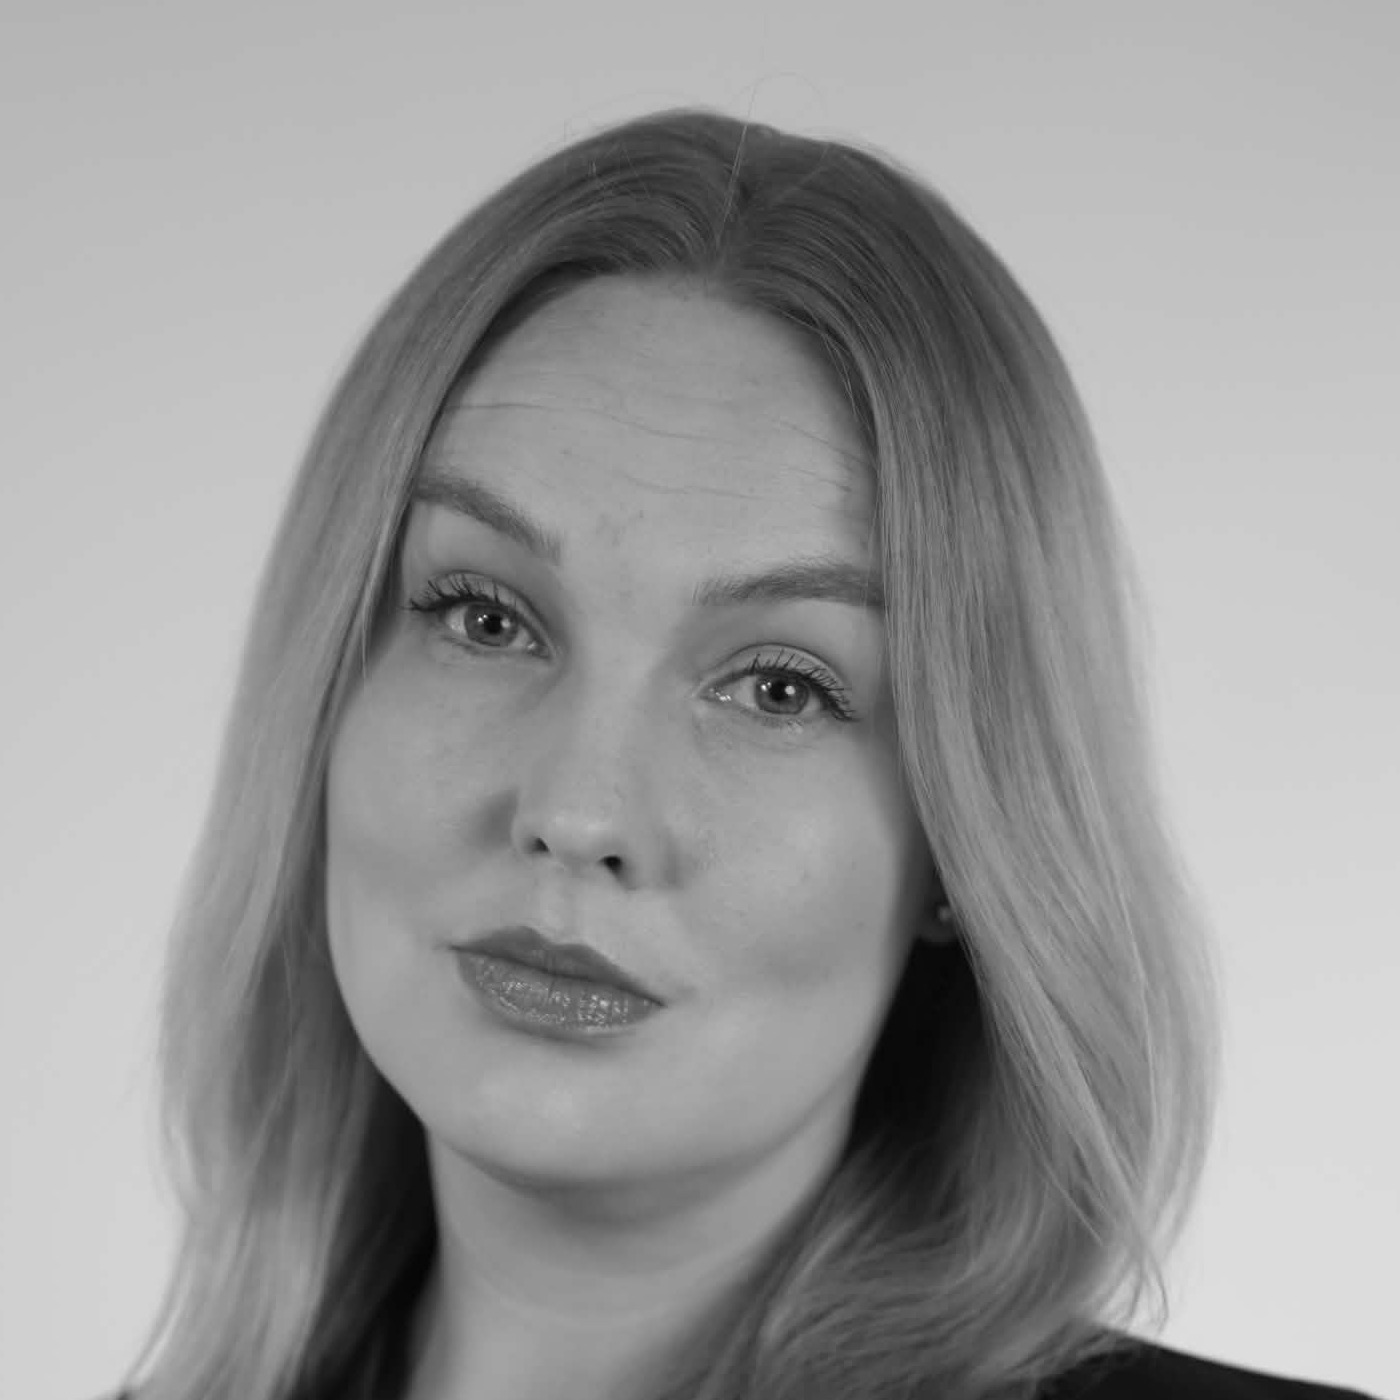
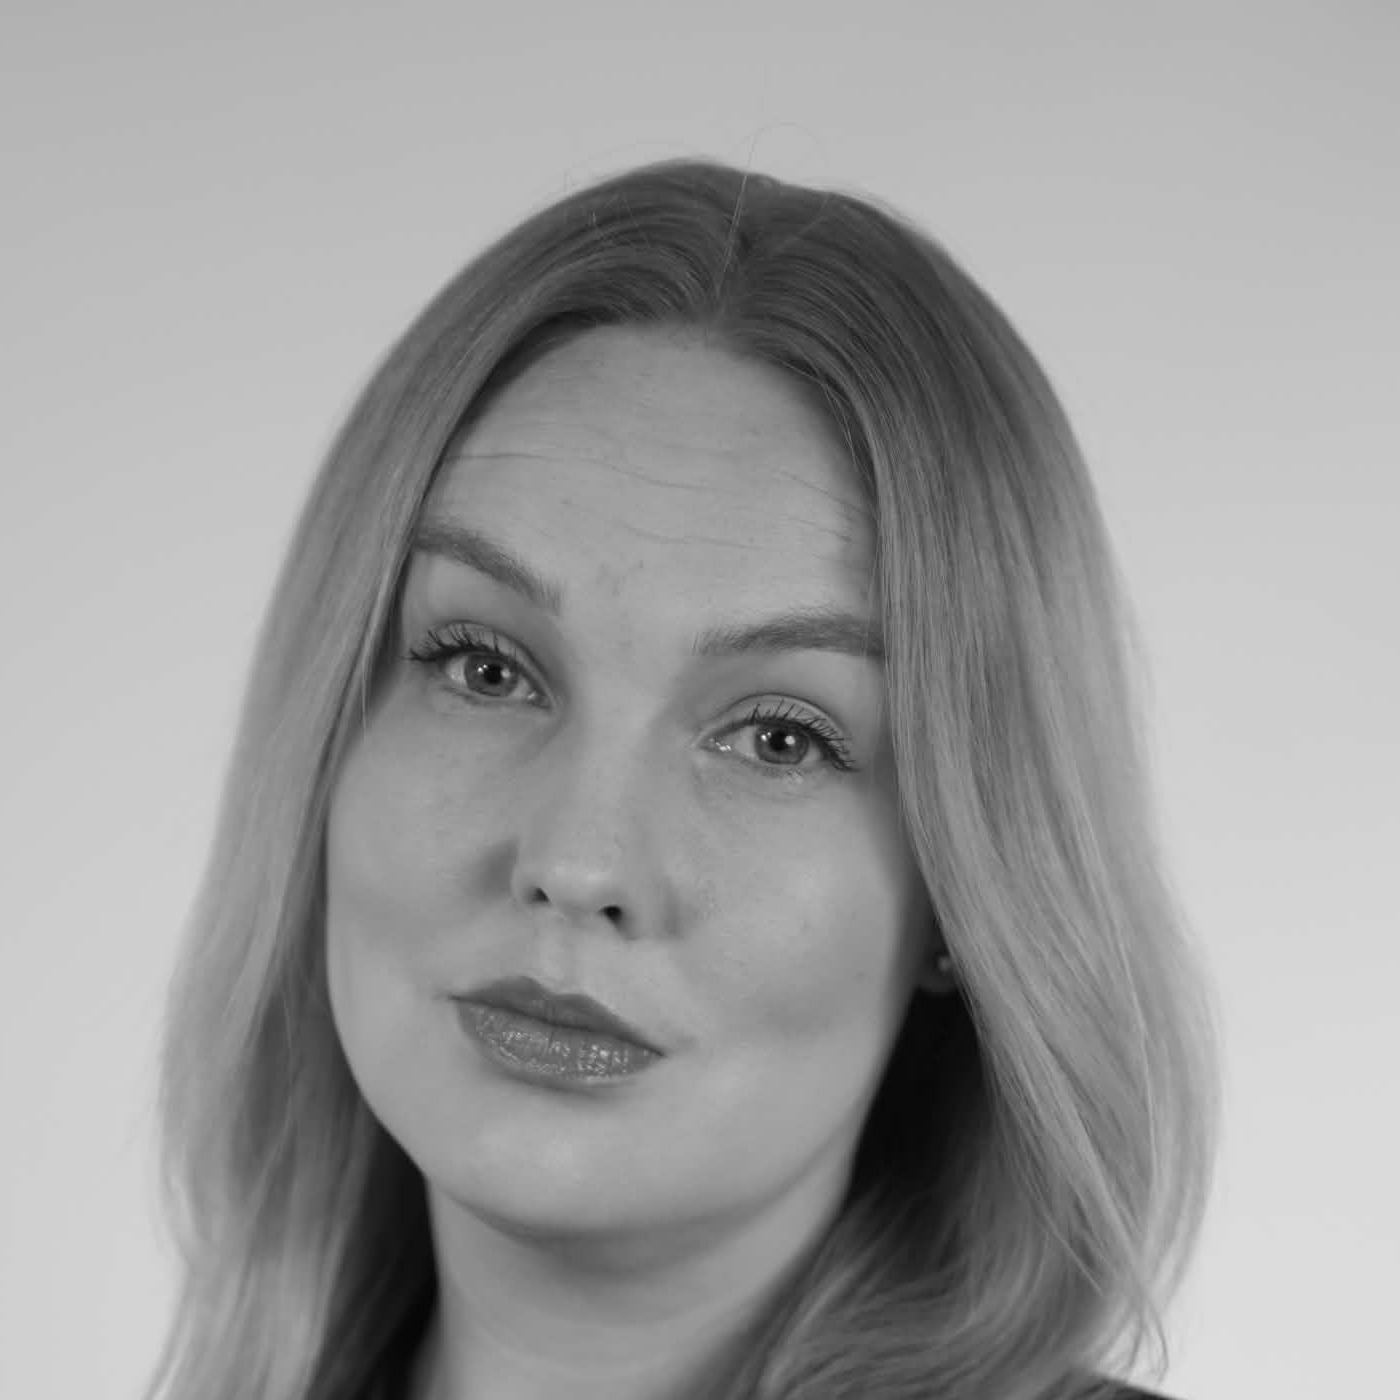
pitch-2026-draft, talk-pitch: fix Varia headshot crop + cache-bust the URL
Root cause of "still not B&W / still cut off" reports: the img src was a
bare filename (team-varia.jpg) with a 4h cache-control header, so browsers
(including our own verification tooling) kept serving the original pre-fix
color/uncropped file after every update. Added a ?v= query param so future
edits invalidate immediately. Also gave the face more headroom in the
square crop — hairline no longer sits right at the frame edge.

Claude-Session: https://claude.ai/code/session_016SVeuAERxN7SDk7p2MbYfZ

diff --git a/pitch-2026-draft/index.html b/pitch-2026-draft/index.html
@@ -1663,7 +1663,7 @@
       <div class="team-layout">
         <div class="team-grid">
           <div class="team-member">
-            <div class="team-headshot"><img src="team-varia.jpg" alt="Varia Wahlroos-Kaitila"></div>
+            <div class="team-headshot"><img src="team-varia.jpg?v=4" alt="Varia Wahlroos-Kaitila"></div>
             <div class="team-info">
               <div class="team-name">Varia Wahlroos-Kaitila <span class="team-tag">CEO</span></div>
               <div class="team-ffg"><span class="t-find">Find</span><span class="t-grow">Grow</span></div>

diff --git a/talk-pitch/index.html b/talk-pitch/index.html
@@ -1934,7 +1934,7 @@
       <div class="team-layout">
         <div class="team-grid">
           <div class="team-member">
-            <div class="team-headshot"><img src="team-varia.jpg" alt="Varia Wahlroos-Kaitila"></div>
+            <div class="team-headshot"><img src="team-varia.jpg?v=4" alt="Varia Wahlroos-Kaitila"></div>
             <div class="team-info">
               <div class="team-name">Varia Wahlroos-Kaitila <span class="team-tag">CEO</span></div>
               <div class="team-ffg"><span class="t-find">Find</span><span class="t-grow">Grow</span></div>
